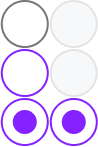
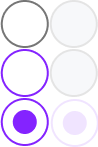
관리자 리스트 페이지 완료

Changed region(s): [[0.4898, 0.6531, 1.0, 1.0], [0.6122, 0.7347, 0.8878, 0.9252]]

diff --git a/css/global.css b/css/global.css
@@ -28,13 +28,14 @@ li:has(button) > button.password.show{background-position-y: calc(var(--iconWidt
 
 
 /* 버튼 */
-[class^="btn"]{display: block; width: 127px; border-radius: 10px; font-size: 20px; font-weight: 500; text-align: center; cursor: pointer; box-sizing: border-box; background-color: transparent;}
+[class^="btn"]{display: block; font-size: 20px; font-weight: 500; text-align: center; padding-inline: 24px; border-radius: 10px; cursor: pointer; box-sizing: border-box; background-color: transparent;}
 .btn-basic{line-height: 44px; border: 1px solid var(--dark-5);}
-.btn-basic:hover{border-color: var(--dark-2);}
-.btn-basic:active{background-color: var(--hover);}
+.btn-basic:not(:disabled):hover{border-color: var(--dark-2);}
+.btn-basic:not(:disabled):active{background-color: var(--hover);}
+.btn-basic:disabled{color: var(--dark-5);}
 .btn-bg{line-height: 48px; background-color: var(--purple); color: white;}
 .btn-bg:hover{background-color: var(--purple-dark);}
-[class^="btn"]:disabled{background-color: var(--dark-6); color: white;}
+.btn-bg:disabled{background-color: var(--dark-6); color: white;}
 
 
 /* 페이지 가로 크기 */
@@ -43,14 +44,15 @@ li:has(button) > button.password.show{background-position-y: calc(var(--iconWidt
 .signInPage{max-width: 392px;}
 
 /* 페이지 서브 타이틀 */
-[class$="Page"] h2{--marginBottom: 60px; font-size: 32px; font-weight: 700; line-height: 36px;}
-[class$="Page"] > h2{margin-bottom: var(--marginBottom);}
+[class$="Page"]{--titleMarginBottom: 60px;}
+[class$="Page"] h2{ font-size: 32px; font-weight: 700; line-height: 36px;}
+[class$="Page"] > h2{margin-bottom: var(--titleMarginBottom);}
 /* 페이지 서브 타이틀 - 이전 페이지 이동 */
 [class$="Page"] h2.back{display: flex; align-items: center; cursor: pointer;}
 [class$="Page"] h2.back::before{content: ''; --width: 36px; width: var(--width); aspect-ratio: 1; background-image: url('../images/icon-back.png'); background-repeat: no-repeat; background-position-x: 0; background-position-y: 0; background-size: 100%; margin-right: 12px;}
 [class$="Page"] h2.back:hover::before{background-position-y: calc(var(--width) * -1);}
 /* 페이지 서브 타이틀 - 드랍박스 */
-[class$="Page"] .titleBox{display: flex; align-items: center; margin-bottom: var(--marginBottom);}
+[class$="Page"] .titleBox{display: flex; align-items: center; margin-bottom: var(--titleMarginBottom);}
 [class$="Page"] .titleBox .dropBox{position: relative;}
 [class$="Page"] .titleBox .dropBox > button{font-size: 32px; font-weight: 400; line-height: 36px; display: flex; align-items: center;}
 [class$="Page"] .titleBox .dropBox > button::before{content: ''; width: 1px; height: 20px; background-color: var(--dark-5); margin-inline: 12px;}
@@ -70,6 +72,7 @@ li:has(button) > button.password.show{background-position-y: calc(var(--iconWidt
 /* 게시판 */
 .boardBox{font-size: 20px; line-height: 60px; text-align: center;}
 .boardBox :is(.boardTitle, ol li){display: flex;}
+.boardBox :is(.boardTitle, ol li) div input[type="checkbox"]{display: none;}
 .boardBox > :is(.boardTitle, ol li) > *{}
 .boardBox .boardTitle{font-weight: 700; background-color: var(--dark-7); border-width: 1px 0; border-style: solid; border-color: var(--dark-3);}
 .boardBox ol{font-weight: 400; color: var(--dark-2);}
@@ -77,6 +80,10 @@ li:has(button) > button.password.show{background-position-y: calc(var(--iconWidt
 .boardBox ol li:hover{background-color: var(--hover);}
 .boardBox ol li div a{opacity: 0; transition: 0.5s opacity; width: 52px; line-height: 30px; font-size: 16px; background-color: white; border: 1px solid var(--dark-6); border-radius: 30px;}
 .boardBox ol li:hover div a{opacity: 1;}
+.boardBox :is(.boardTitle, ol li) div:has(input[type="checkbox"]){display: flex; justify-content: center; align-items: center;}
+.boardBox :is(.boardTitle, ol li) div input[type="checkbox"] + label{ --width: 24px; width: var(--width); aspect-ratio: 1; background-image: url('../images/icon-checkbox.png'); background-repeat: no-repeat; background-position-x: 0; background-position-y: 0; background-size: 300%;}
+.boardBox :is(.boardTitle, ol li) div input[type="checkbox"] + label:hover{background-position-y: calc(var(--width) * -1);}
+.boardBox :is(.boardTitle, ol li) div input[type="checkbox"]:checked + label{background-position-x: calc(var(--width) * -1);}
 
 /* 페이저 */
 .pagerBox{--gap: 16px; display: flex; justify-content: center; align-items: center; gap: var(--gap); margin-top: 48px;}

diff --git a/manager.html b/manager.html
@@ -29,5 +29,103 @@
         </div>
     </header>
     
+    <section class="managerPage">
+        <h2>관리자 리스트</h2>
+        <button class="btn-basic" disabled>선택 비활성화</button>
+        <div class="boardBox">
+            <div class="boardTitle">
+                <div>
+                    <input type="checkbox" id="chk01">
+                    <label for="chk01"></label>
+                </div>
+                <span>이름</span>
+                <span>생년월일</span>
+                <span>이메일</span>
+                <span>휴대폰 번호</span>
+                <span></span>
+            </div>
+            <ol>
+                <li>
+                    <div>
+                        <input type="checkbox" id="chk03">
+                        <label for="chk03"></label>
+                    </div>
+                    <span>김리자</span>
+                    <span>2001. 1. 5</span>
+                    <span>fslfjls@naver.com</span>
+                    <span>010-2314-1254</span>
+                    <div>
+                        <a href="">상세</a>
+                    </div>
+                </li>
+                <li>
+                    <div>
+                        <input type="checkbox" id="chk04">
+                        <label for="chk04"></label>
+                    </div>
+                    <span>김리자</span>
+                    <span>2001. 1. 5</span>
+                    <span>fslfjls@naver.com</span>
+                    <span>010-2314-1254</span>
+                    <div>
+                        <a href="">상세</a>
+                    </div>
+                </li>
+                <li>
+                    <div>
+                        <input type="checkbox" id="chk05">
+                        <label for="chk05"></label>
+                    </div>
+                    <span>김리자</span>
+                    <span>2001. 1. 5</span>
+                    <span>fslfjls@naver.com</span>
+                    <span>010-2314-1254</span>
+                    <div>
+                        <a href="">상세</a>
+                    </div>
+                </li>
+                <li>
+                    <div>
+                        <input type="checkbox" id="chk06">
+                        <label for="chk06"></label>
+                    </div>
+                    <span>김리자</span>
+                    <span>2001. 1. 5</span>
+                    <span>fslfjls@naver.com</span>
+                    <span>010-2314-1254</span>
+                    <div>
+                        <a href="">상세</a>
+                    </div>
+                </li>
+                <li>
+                    <div>
+                        <input type="checkbox" id="chk07">
+                        <label for="chk07"></label>
+                    </div>
+                    <span>김리자</span>
+                    <span>2001. 1. 5</span>
+                    <span>fslfjls@naver.com</span>
+                    <span>010-2314-1254</span>
+                    <div>
+                        <a href="">상세</a>
+                    </div>
+                </li>
+            </ol>
+        </div>
+
+        <div class="pagerBox" data-styleIdx="a">
+            <a href="">맨 앞 페이지로 이동</a>
+            <a href="" class="active">앞 페이지로 이동</a>
+            <ol>
+                <li class="active"><a href="">1</a></li>
+                <li><a href="">2</a></li>
+                <li><a href="">3</a></li>
+                <li><a href="">4</a></li>
+                <li><a href="">5</a></li>
+            </ol>
+            <a href="" class="active">뒷 페이지 이동</a>
+            <a href="">맨 뒷 페이지 이동</a>
+        </div>
+    </section>
 </body>
 </html>

diff --git a/css/page.css b/css/page.css
@@ -56,14 +56,14 @@
 [class^="member"][class$="Page"] .searchArea div ul li span::after{content: ''; width: 2px; height: 16px; background-color: var(--dark-6); margin-inline: 16px;}
 [class^="member"][class$="Page"] .searchArea div ul li span:first-of-type{font-weight: 500;}
 [class^="member"][class$="Page"] .searchArea div ul li span:not(:first-of-type){font-weight: 400; color: var(--dark-4);}
-[class^="member"][class$="Page"] .boardBox :is(.boardTitle, ol li) > *{flex: 149px;}
+[class^="member"][class$="Page"] .boardBox :is(.boardTitle, ol li) > *{flex: 149;}
 
 
 /* 회원관리 - 신규등록 */
 .memberRegistPage ul{display: flex; justify-content: center; align-items: center; gap: 48px;}
 .memberRegistPage ul li{text-align: center;}
 .memberRegistPage ul li a{width: 300px; height: 406px; padding: 24px; box-shadow: 0 4px 10px rgba(0, 0, 0, 0.25); border-radius: var(--borderRadius); border: 3px solid transparent; box-sizing: border-box;}
-.memberRegistPage ul li a::before{content: ''; display: block; --width: 32px; width: var(--width); aspect-ratio: 1; margin-inline: auto; background-image: url('../images/icon-checkbox.png'); background-repeat: no-repeat; background-position-x: left; background-position-y: var(--width); background-size: 100%; margin-bottom: 12px;}
+.memberRegistPage ul li a::before{content: ''; display: block; --width: 32px; width: var(--width); aspect-ratio: 1; margin-inline: auto; background-image: url('../images/icon-check.png'); background-repeat: no-repeat; background-position-x: left; background-position-y: var(--width); background-size: 100%; margin-bottom: 12px;}
 .memberRegistPage ul li a::after{content: ''; display: block; --height: 204px; width: 206px; height: var(--height); margin-inline: auto; background-image: url('../images/img-regist.png'); background-repeat: no-repeat; background-position-x: left; background-position-y: calc(var(--height) * var(--styleIdx) * -1); background-size: 100%;}
 .memberRegistPage ul li a small{display: block; font-size: 16px; font-weight: 400; line-height: 20px; color: var(--dark-4); margin-bottom: 12px;}
 .memberRegistPage ul li a strong{display: block; font-size: 20px; font-weight: 700; line-height: 24px; margin-bottom: 38px;}
@@ -71,3 +71,15 @@
 .memberRegistPage ul li:hover a::before{background-position-y: 0;}
 .memberRegistPage ul li:active a{border-color: var(--purple-dark);}
 .memberRegistPage ul li:active a::before{background-position-y: calc(var(--width) * -1);}
+
+
+/* 기록 다운로드 */
+.downloadPage{text-align: right;}
+.downloadPage h2{text-align: left;}
+.downloadPage .btn-bg{display: inline-block;}
+
+
+/* 관리자 리스트 */
+.managerPage .btn-basic{margin-bottom: 24px;}
+.managerPage .boardBox :is(.boardTitle, ol li) > *:nth-child(1){width: 88px; flex-shrink: 0;}
+.managerPage .boardBox :is(.boardTitle, ol li) > *:not(:nth-child(1)){flex: 1;}

diff --git a/download.html b/download.html
@@ -29,5 +29,10 @@
         </div>
     </header>
     
+    <section class="downloadPage">
+        <h2>기록 다운로드</h2>
+        <p class="guideText">등록된 회원들의 운동 및 측정 기록을 다운로드 할 수 있어요!</p>
+        <a href="" class="btn-bg">xlsx 파일 다운로드 하기</a>
+    </section>
 </body>
 </html>
